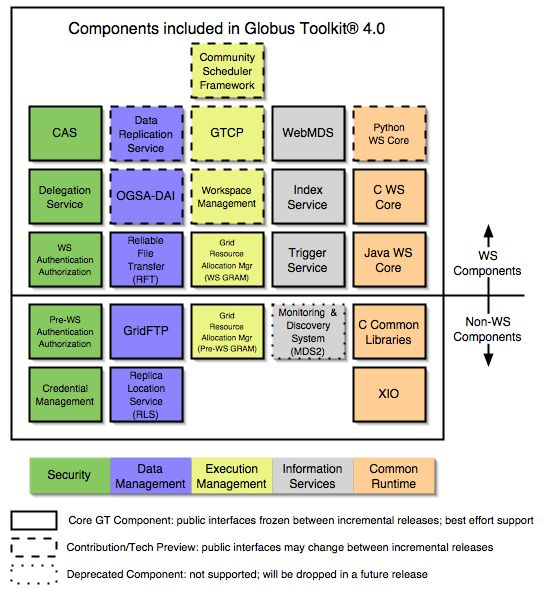
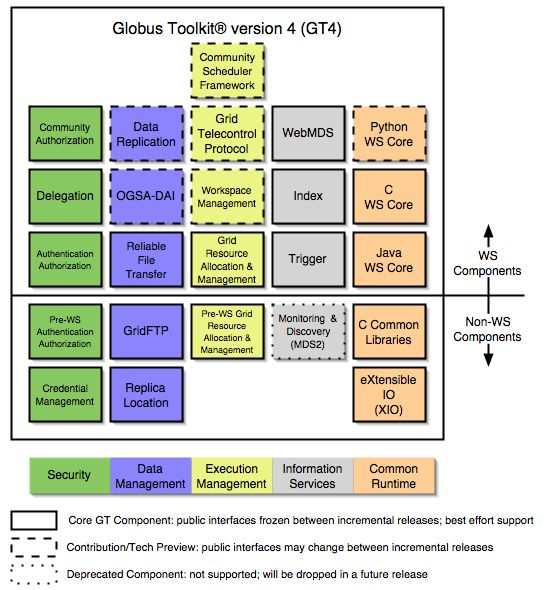
Add a Guide to the Guides.  Yay metadata!

diff --git a/toolkit/docs/4.0/doc_overview.html b/toolkit/docs/4.0/doc_overview.html
@@ -1,0 +1,33 @@
+<?php 
+
+$title="Globus Toolkit 4.0 Documentation Overview";
+include_once( "/mcs/www-unix.globus.org/include/globus_header.inc" ); ?>
+
+<h1><?php echo $title; ?></h1>
+
+<p>We have put an unprecedented amount of effort into producing documentation for GT4.  There is still much to do and we have many future improvements planned, but it is our hope that you'll be pleased with our progress thus far.</p>
+
+<p>Because there are so many <a href="GT4figure.jpg">components in the Globus Toolkit</a> it can be intimidating to begin working with GT4.  To help you find your way, we've tried to consistently follow a few basic principles in our documentation:
+<ul>
+<li>The same documentation structure is applied to all components.  This means that GridFTP, for instance, will have the same type of information available, and present it in the same order, as WS GRAM.</li>
+<li>If a subsection of a document does not apply to the component it is marked as such so you will <i>know</i> that it does not apply.</li>
+<li>If a subsection is missing for a particular component it is marked as such, so that you do not waste time searching for information that doesn't exist.</li>
+</ul>
+
+In order to track problems and encourage ongoing improvements in our documentation, you can now file bugs on the "Documentation" product in the <a href="http://bugzilla.globus.org/globus/">GT problem tracking system</a>.  Please help us improve our documentation by filing bugs!</p>
+
+<p>
+
+The GT4 release manual is composed of several smaller documents, each of which falls into one of three categories:
+<ol>
+<li><b>Toolkit-Level content</b>: documents applying to the toolkit in general</li>
+<li><b>Domain-Area content</b>: documents applying to one of the five broad areas of the toolkit (Security, Execution Management, Data Management, Information Services, Common Runtime)</li>
+<li><b>Component-Level content</b>: documents applying to an individual component (GridFTP, the Index Service, WS GRAM, etc.)</li>
+</ol>
+The following diagram illustrates the GT4 documentation structure: <br>
+<img src="GT4ReleaseManHierarchy.jpg">
+</p>
+
+<p>We also welcome your documentation-related contributions.  Please consider contributing your own Globus-related documents to the <a href="http://gdp.globus.org/">The Globus Documentation Project</a>.</p>
+
+<?php include("/mcs/www-unix.globus.org/include/globus_footer.inc"); ?>

diff --git a/toolkit/docs/4.2/4.2.0/doc_overview.html b/toolkit/docs/4.2/4.2.0/doc_overview.html
@@ -1,0 +1,33 @@
+<?php 
+
+$title="Globus Toolkit 4.0 Documentation Overview";
+include_once( "/mcs/www-unix.globus.org/include/globus_header.inc" ); ?>
+
+<h1><?php echo $title; ?></h1>
+
+<p>We have put an unprecedented amount of effort into producing documentation for GT4.  There is still much to do and we have many future improvements planned, but it is our hope that you'll be pleased with our progress thus far.</p>
+
+<p>Because there are so many <a href="GT4figure.jpg">components in the Globus Toolkit</a> it can be intimidating to begin working with GT4.  To help you find your way, we've tried to consistently follow a few basic principles in our documentation:
+<ul>
+<li>The same documentation structure is applied to all components.  This means that GridFTP, for instance, will have the same type of information available, and present it in the same order, as WS GRAM.</li>
+<li>If a subsection of a document does not apply to the component it is marked as such so you will <i>know</i> that it does not apply.</li>
+<li>If a subsection is missing for a particular component it is marked as such, so that you do not waste time searching for information that doesn't exist.</li>
+</ul>
+
+In order to track problems and encourage ongoing improvements in our documentation, you can now file bugs on the "Documentation" product in the <a href="http://bugzilla.globus.org/globus/">GT problem tracking system</a>.  Please help us improve our documentation by filing bugs!</p>
+
+<p>
+
+The GT4 release manual is composed of several smaller documents, each of which falls into one of three categories:
+<ol>
+<li><b>Toolkit-Level content</b>: documents applying to the toolkit in general</li>
+<li><b>Domain-Area content</b>: documents applying to one of the five broad areas of the toolkit (Security, Execution Management, Data Management, Information Services, Common Runtime)</li>
+<li><b>Component-Level content</b>: documents applying to an individual component (GridFTP, the Index Service, WS GRAM, etc.)</li>
+</ol>
+The following diagram illustrates the GT4 documentation structure: <br>
+<img src="GT4ReleaseManHierarchy.jpg">
+</p>
+
+<p>We also welcome your documentation-related contributions.  Please consider contributing your own Globus-related documents to the <a href="http://gdp.globus.org/">The Globus Documentation Project</a>.</p>
+
+<?php include("/mcs/www-unix.globus.org/include/globus_footer.inc"); ?>

diff --git a/toolkit/docs/4.2/4.2.1/doc_overview.html b/toolkit/docs/4.2/4.2.1/doc_overview.html
@@ -1,0 +1,33 @@
+<?php 
+
+$title="Globus Toolkit 4.0 Documentation Overview";
+include_once( "/mcs/www-unix.globus.org/include/globus_header.inc" ); ?>
+
+<h1><?php echo $title; ?></h1>
+
+<p>We have put an unprecedented amount of effort into producing documentation for GT4.  There is still much to do and we have many future improvements planned, but it is our hope that you'll be pleased with our progress thus far.</p>
+
+<p>Because there are so many <a href="GT4figure.jpg">components in the Globus Toolkit</a> it can be intimidating to begin working with GT4.  To help you find your way, we've tried to consistently follow a few basic principles in our documentation:
+<ul>
+<li>The same documentation structure is applied to all components.  This means that GridFTP, for instance, will have the same type of information available, and present it in the same order, as WS GRAM.</li>
+<li>If a subsection of a document does not apply to the component it is marked as such so you will <i>know</i> that it does not apply.</li>
+<li>If a subsection is missing for a particular component it is marked as such, so that you do not waste time searching for information that doesn't exist.</li>
+</ul>
+
+In order to track problems and encourage ongoing improvements in our documentation, you can now file bugs on the "Documentation" product in the <a href="http://bugzilla.globus.org/globus/">GT problem tracking system</a>.  Please help us improve our documentation by filing bugs!</p>
+
+<p>
+
+The GT4 release manual is composed of several smaller documents, each of which falls into one of three categories:
+<ol>
+<li><b>Toolkit-Level content</b>: documents applying to the toolkit in general</li>
+<li><b>Domain-Area content</b>: documents applying to one of the five broad areas of the toolkit (Security, Execution Management, Data Management, Information Services, Common Runtime)</li>
+<li><b>Component-Level content</b>: documents applying to an individual component (GridFTP, the Index Service, WS GRAM, etc.)</li>
+</ol>
+The following diagram illustrates the GT4 documentation structure: <br>
+<img src="GT4ReleaseManHierarchy.jpg">
+</p>
+
+<p>We also welcome your documentation-related contributions.  Please consider contributing your own Globus-related documents to the <a href="http://gdp.globus.org/">The Globus Documentation Project</a>.</p>
+
+<?php include("/mcs/www-unix.globus.org/include/globus_footer.inc"); ?>

diff --git a/toolkit/docs/development/4.1.1/doc_overview.html b/toolkit/docs/development/4.1.1/doc_overview.html
@@ -1,0 +1,33 @@
+<?php 
+
+$title="Globus Toolkit 4.0 Documentation Overview";
+include_once( "/mcs/www-unix.globus.org/include/globus_header.inc" ); ?>
+
+<h1><?php echo $title; ?></h1>
+
+<p>We have put an unprecedented amount of effort into producing documentation for GT4.  There is still much to do and we have many future improvements planned, but it is our hope that you'll be pleased with our progress thus far.</p>
+
+<p>Because there are so many <a href="GT4figure.jpg">components in the Globus Toolkit</a> it can be intimidating to begin working with GT4.  To help you find your way, we've tried to consistently follow a few basic principles in our documentation:
+<ul>
+<li>The same documentation structure is applied to all components.  This means that GridFTP, for instance, will have the same type of information available, and present it in the same order, as WS GRAM.</li>
+<li>If a subsection of a document does not apply to the component it is marked as such so you will <i>know</i> that it does not apply.</li>
+<li>If a subsection is missing for a particular component it is marked as such, so that you do not waste time searching for information that doesn't exist.</li>
+</ul>
+
+In order to track problems and encourage ongoing improvements in our documentation, you can now file bugs on the "Documentation" product in the <a href="http://bugzilla.globus.org/globus/">GT problem tracking system</a>.  Please help us improve our documentation by filing bugs!</p>
+
+<p>
+
+The GT4 release manual is composed of several smaller documents, each of which falls into one of three categories:
+<ol>
+<li><b>Toolkit-Level content</b>: documents applying to the toolkit in general</li>
+<li><b>Domain-Area content</b>: documents applying to one of the five broad areas of the toolkit (Security, Execution Management, Data Management, Information Services, Common Runtime)</li>
+<li><b>Component-Level content</b>: documents applying to an individual component (GridFTP, the Index Service, WS GRAM, etc.)</li>
+</ol>
+The following diagram illustrates the GT4 documentation structure: <br>
+<img src="GT4ReleaseManHierarchy.jpg">
+</p>
+
+<p>We also welcome your documentation-related contributions.  Please consider contributing your own Globus-related documents to the <a href="http://gdp.globus.org/">The Globus Documentation Project</a>.</p>
+
+<?php include("/mcs/www-unix.globus.org/include/globus_footer.inc"); ?>

diff --git a/toolkit/docs/development/4.1.2/doc_overview.html b/toolkit/docs/development/4.1.2/doc_overview.html
@@ -1,0 +1,33 @@
+<?php 
+
+$title="Globus Toolkit 4.0 Documentation Overview";
+include_once( "/mcs/www-unix.globus.org/include/globus_header.inc" ); ?>
+
+<h1><?php echo $title; ?></h1>
+
+<p>We have put an unprecedented amount of effort into producing documentation for GT4.  There is still much to do and we have many future improvements planned, but it is our hope that you'll be pleased with our progress thus far.</p>
+
+<p>Because there are so many <a href="GT4figure.jpg">components in the Globus Toolkit</a> it can be intimidating to begin working with GT4.  To help you find your way, we've tried to consistently follow a few basic principles in our documentation:
+<ul>
+<li>The same documentation structure is applied to all components.  This means that GridFTP, for instance, will have the same type of information available, and present it in the same order, as WS GRAM.</li>
+<li>If a subsection of a document does not apply to the component it is marked as such so you will <i>know</i> that it does not apply.</li>
+<li>If a subsection is missing for a particular component it is marked as such, so that you do not waste time searching for information that doesn't exist.</li>
+</ul>
+
+In order to track problems and encourage ongoing improvements in our documentation, you can now file bugs on the "Documentation" product in the <a href="http://bugzilla.globus.org/globus/">GT problem tracking system</a>.  Please help us improve our documentation by filing bugs!</p>
+
+<p>
+
+The GT4 release manual is composed of several smaller documents, each of which falls into one of three categories:
+<ol>
+<li><b>Toolkit-Level content</b>: documents applying to the toolkit in general</li>
+<li><b>Domain-Area content</b>: documents applying to one of the five broad areas of the toolkit (Security, Execution Management, Data Management, Information Services, Common Runtime)</li>
+<li><b>Component-Level content</b>: documents applying to an individual component (GridFTP, the Index Service, WS GRAM, etc.)</li>
+</ol>
+The following diagram illustrates the GT4 documentation structure: <br>
+<img src="GT4ReleaseManHierarchy.jpg">
+</p>
+
+<p>We also welcome your documentation-related contributions.  Please consider contributing your own Globus-related documents to the <a href="http://gdp.globus.org/">The Globus Documentation Project</a>.</p>
+
+<?php include("/mcs/www-unix.globus.org/include/globus_footer.inc"); ?>

diff --git a/toolkit/docs/development/4.1.3/doc_overview.html b/toolkit/docs/development/4.1.3/doc_overview.html
@@ -1,0 +1,33 @@
+<?php 
+
+$title="Globus Toolkit 4.0 Documentation Overview";
+include_once( "/mcs/www-unix.globus.org/include/globus_header.inc" ); ?>
+
+<h1><?php echo $title; ?></h1>
+
+<p>We have put an unprecedented amount of effort into producing documentation for GT4.  There is still much to do and we have many future improvements planned, but it is our hope that you'll be pleased with our progress thus far.</p>
+
+<p>Because there are so many <a href="GT4figure.jpg">components in the Globus Toolkit</a> it can be intimidating to begin working with GT4.  To help you find your way, we've tried to consistently follow a few basic principles in our documentation:
+<ul>
+<li>The same documentation structure is applied to all components.  This means that GridFTP, for instance, will have the same type of information available, and present it in the same order, as WS GRAM.</li>
+<li>If a subsection of a document does not apply to the component it is marked as such so you will <i>know</i> that it does not apply.</li>
+<li>If a subsection is missing for a particular component it is marked as such, so that you do not waste time searching for information that doesn't exist.</li>
+</ul>
+
+In order to track problems and encourage ongoing improvements in our documentation, you can now file bugs on the "Documentation" product in the <a href="http://bugzilla.globus.org/globus/">GT problem tracking system</a>.  Please help us improve our documentation by filing bugs!</p>
+
+<p>
+
+The GT4 release manual is composed of several smaller documents, each of which falls into one of three categories:
+<ol>
+<li><b>Toolkit-Level content</b>: documents applying to the toolkit in general</li>
+<li><b>Domain-Area content</b>: documents applying to one of the five broad areas of the toolkit (Security, Execution Management, Data Management, Information Services, Common Runtime)</li>
+<li><b>Component-Level content</b>: documents applying to an individual component (GridFTP, the Index Service, WS GRAM, etc.)</li>
+</ol>
+The following diagram illustrates the GT4 documentation structure: <br>
+<img src="GT4ReleaseManHierarchy.jpg">
+</p>
+
+<p>We also welcome your documentation-related contributions.  Please consider contributing your own Globus-related documents to the <a href="http://gdp.globus.org/">The Globus Documentation Project</a>.</p>
+
+<?php include("/mcs/www-unix.globus.org/include/globus_footer.inc"); ?>
